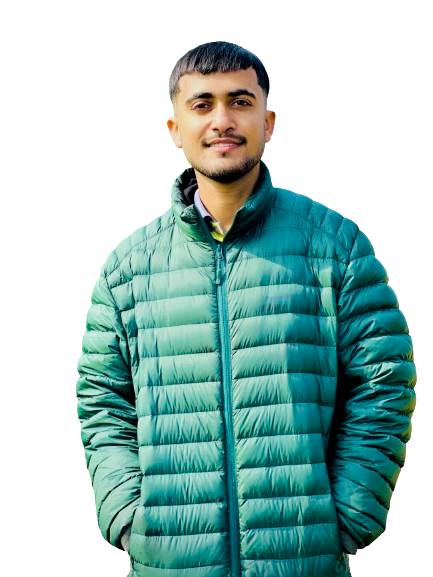
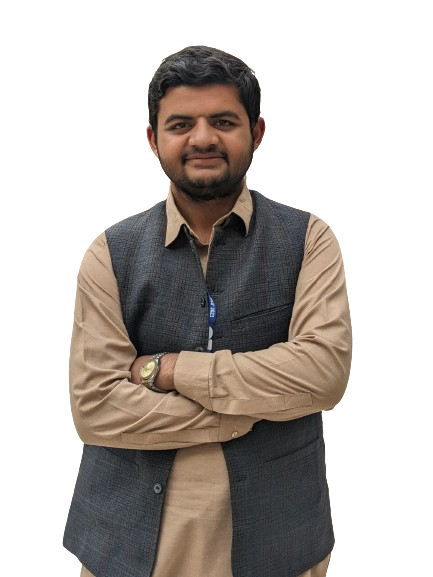
changed sachal sahito to wustullah khan jamali and images also

diff --git a/index.html b/index.html
@@ -9,14 +9,14 @@
         <!-- =====BOX ICONS===== -->
         <link href='https://cdn.jsdelivr.net/npm/boxicons@2.0.5/css/boxicons.min.css' rel='stylesheet'>
 
-        <title>Sachal Sahito</title>
+        <title>Wusatullah Khan Jamali</title>
     </head>
     <body>
         <!--===== HEADER =====-->
         <header class="l-header">
             <nav class="nav bd-grid">
                 <div>
-                    <a href="#" class="nav__logo">Sachal Sahito</a>
+                    <a href="#" class="nav__logo">Wusatullah Khan Jamali</a>
                 </div>
 
                 <div class="nav__menu" id="nav-menu">
@@ -39,7 +39,7 @@
             <!--===== HOME =====-->
             <section class="home bd-grid" id="home">
                 <div class="home__data">
-                    <h1 class="home__title">Hi,<br>I'm <span class="home__title-color">Sachal Sahito</span><br> Web Designer</h1>
+                    <h1 class="home__title">Hi,<br>I'm <span class="home__title-color">Wusatullah</span><br> Web Designer</h1>
 
                     <a href="#" class="button">Contact</a>
                 </div>
@@ -73,7 +73,7 @@
                     </div>
                     
                     <div>
-                        <h2 class="about__subtitle">I'm Sachal Sahito</h2>
+                        <h2 class="about__subtitle">I'm Wusatullah Khan Jamali</h2>
                         <p class="about__text">I'm a third-year software engineering student proficient in HTML, CSS, and JavaScript. Specializing in web development, I create visually stunning and functional websites. Let's collaborate on bringing your digital vision to life!</p>           
                     </div>                                   
                 </div>
@@ -170,7 +170,7 @@
 
         <!--===== FOOTER =====-->
         <footer class="footer">
-            <p class="footer__title">Sachal Sahito</p>
+            <p class="footer__title">Wusatullah Khan Jamali</p>
             <h4>This SCD Project is made in collabration of Rafay 21SW152, Sachal 21SW102, Wusatullah 21SW028</h4>
             <div class="footer__social">
                 <a href="https://www.facebook.com/neon.alpha.169" class="footer__icon"><i class='bx bxl-facebook' ></i></a>
